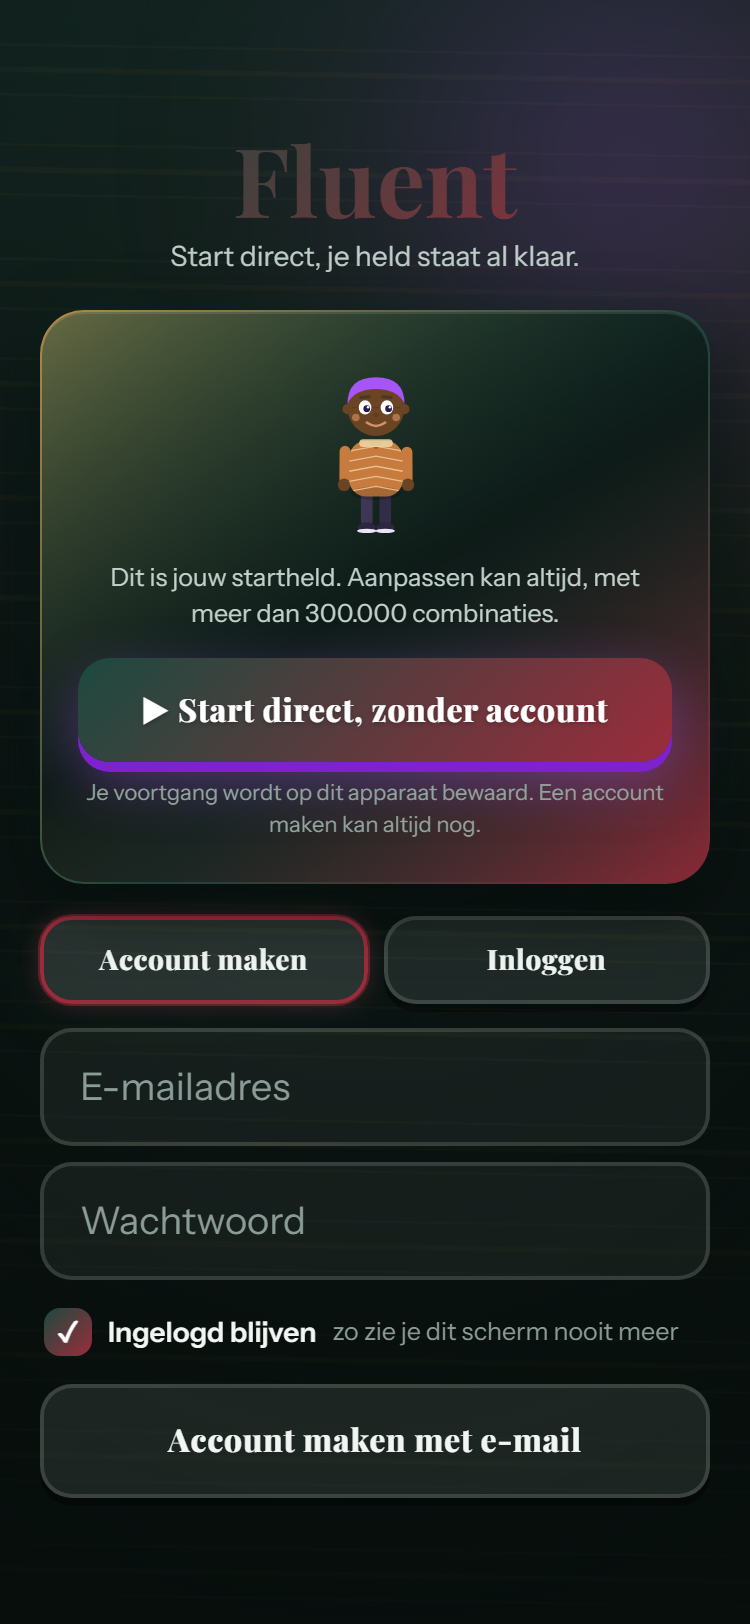
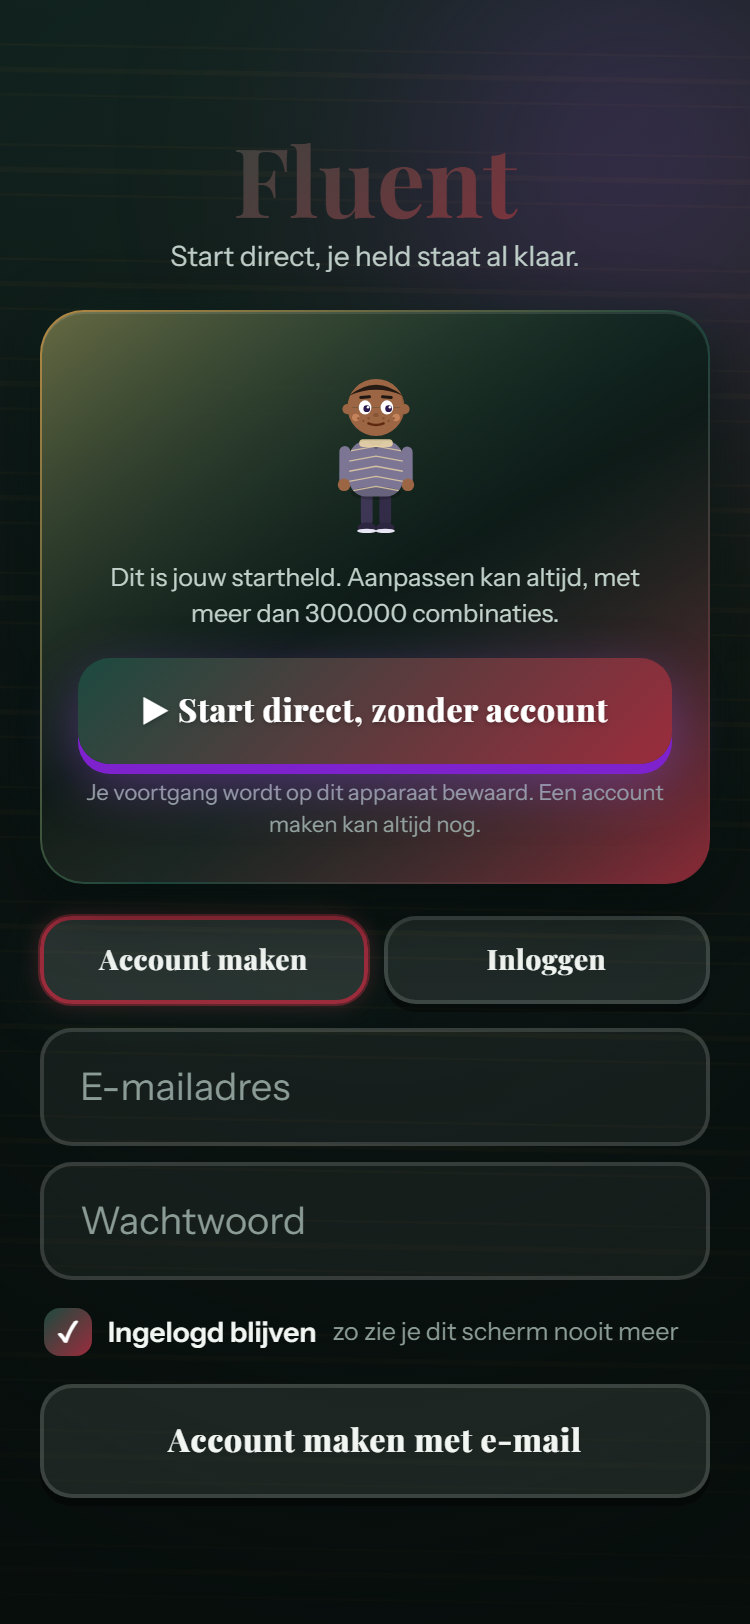
De lijn van de opening moest ook echt stoppen
Onzichtbaar is niet hetzelfde als gestopt. De vullende lijn draaide vrolijk
door zodra de app het had overgenomen, en telde daarmee als vierde oneindige
animatie op elk scherm. Dat is batterij voor iets wat niemand meer ziet, en
het is precies één meer dan het prestatiecontract toestaat.

De audit ving het binnen één ronde, in dezelfde commit waarin ik de opening
had gebouwd. Terug op 96 van de 96 schoon.

Changed region(s): [[0.4293, 0.2155, 0.552, 0.3079], [0.8587, 0.4618, 0.8893, 0.4926]]

diff --git a/index.html b/index.html
@@ -47,6 +47,14 @@
         opacity: 0;
         visibility: hidden;
       }
+      /* En de lijn moet ook écht stoppen. Onzichtbaar is niet hetzelfde als
+         gestopt: hij draaide vrolijk door zodra de app het had overgenomen, en
+         telde daarmee mee als vierde oneindige animatie op elk scherm. Dat
+         kost batterij voor iets wat niemand meer ziet. */
+      body:has(#root > *) .opening-spoor span,
+      body.app-staat .opening-spoor span {
+        animation: none;
+      }
       .opening-naam {
         margin: 0;
         font-family: system-ui, sans-serif;
